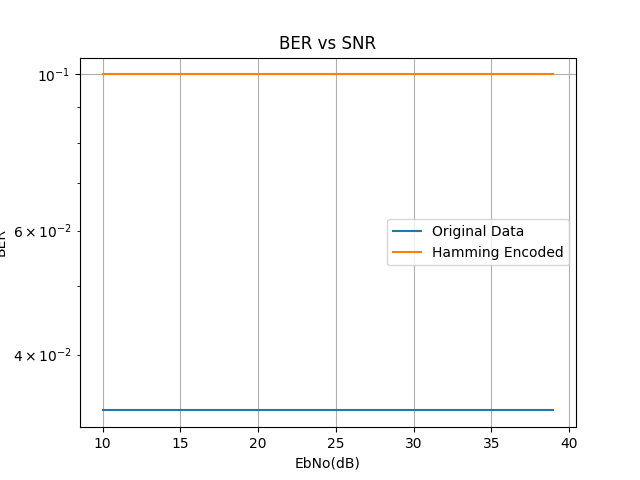
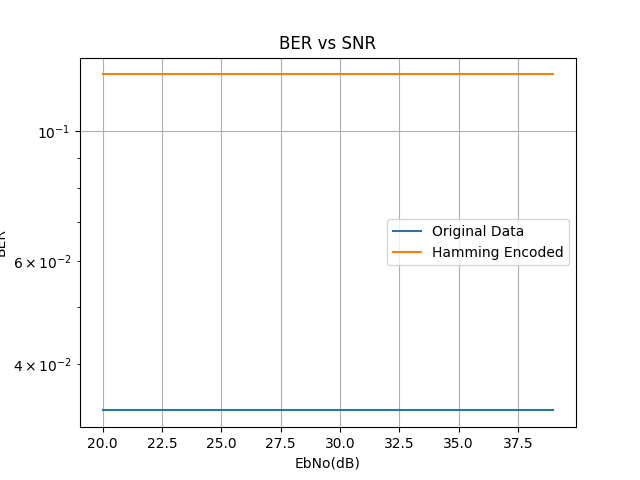
fixed decoding in hamming codes

diff --git a/Python/FuncAndClass.py b/Python/FuncAndClass.py
@@ -14,6 +14,10 @@ from sys import argv
 from struct import *
 # Huffman Coding in python
 
+# Global Variables .... If I want to change multiple values
+totWithHammSize = 8
+noHammSize = 4
+
 # Creating tree nodes
 class NodeTree(object):
 
@@ -244,8 +248,8 @@ def binText(arr):
 def hammingCoding(data):
     print("Data that came into the hamming code ", data)
     slicedStr=[]
-    for i in range (4, len(data)+1, 4):
-        slicedStr.append(data[i-4:i])
+    for i in range (4, len(data)+1, noHammSize):
+        slicedStr.append(data[i-noHammSize:i])
     print("The sliced data is ", slicedStr)
     encodedStr=[]
     for j in range(0, len(slicedStr)):
@@ -280,12 +284,31 @@ def addParityBits(data, r):
     m = len(data)
     data = list(data)
     # if in postition that is a power of 2 then insert 0
-    # data.insert(0, '0')
+    data.insert(0, '0')
+    j = 0
     for i in range (1, m+1):
-        if 2**i%2==0:
+        if i == 2**j:
             data.insert(i, '0')
+            j+=1
     data = ''.join(data)
     return data
+
+def parityValues(arr):
+    arr = [int(i) for i in list(arr)]
+    parityNo = reduce(lambda x,y: x ^ y, [i for i, bit in enumerate(arr) if bit])
+    parityNo = bin(parityNo).replace("0b","")
+    if parityNo[0] != '0':
+        parityNo = list(parityNo)
+        for i in range (0, len(parityNo)):
+            if 2**i < len(arr):
+                arr[i] = parityNo[i] 
+    total=0
+    for i in range(0,len(arr)): 
+        if int(arr[i]) == 1: total+=1
+    if total%2==0: arr[0]='0'
+    else: arr[0]='1'
+    arr = ''.join([str(i) for i in arr])
+    return arr
 
 '''
 def posRedundantBits(data, r): 
@@ -332,78 +355,57 @@ def calcParityBits(arr, r):
 	return arr 
 '''
 
-def parityValues(arr):
-    arr = [int(i) for i in list(arr)]
-    parityNo = reduce(lambda x,y: x ^ y, [i for i, bit in enumerate(arr) if bit])
-    parityNo = bin(parityNo).replace("0b","")
-    if parityNo[0] != '0':
-        parityNo = list(parityNo)
-        for i in range (0, len(parityNo)):
-            if 2**i < len(arr):
-                arr[i] = parityNo[i] 
-    total=0
-    for i in range(0,len(arr)): 
-        if int(arr[i]) == 1: total+=1
-    if total%2==0: arr[0]='0'
-    else: arr[0]='1'
-    arr = ''.join([str(i) for i in arr])
-    return arr
-
 def hammDec(recArr):
     recArr =  ''.join(map(str, recArr))
     print("The data that came into the function", recArr)
     slicedStr=[]
-    for i in range (8, len(recArr)+1, 8):
-        slicedStr.append(recArr[i-8:i])
+    # breakup our data into the pieces that they were originally encoded as
+    for i in range (totWithHammSize, len(recArr)+1, totWithHammSize):
+        slicedStr.append(recArr[i-totWithHammSize:i])
     decodedStr=[]
     for j in range(0, len(slicedStr)):
         arr = slicedStr[j]
         arr = [int(i) for i in list(arr)]        
-        error = detectError(arr, 3)
+        # determine position of error and if none then return 0
+        error = reduce(lambda x,y: x ^ y, [i for i, bit in enumerate(arr) if bit])
         if error == 0:
-            # if this is true then no errors detected and just remove parity bits
+            # if this is true then no errors detected then just remove parity bits
             arr = [str(x) for x in arr]
-            arr = arr[2:3] + arr[4:]  # remove parity bits
-            arr = ''.join(arr)
-            decodedStr.append(arr)
+            decodedArr = remParityBits(arr)
+            decodedStr.append(decodedArr)
             print("No error detected")
-        else:
-            if error != 0:
-                if arr[error] == 0: arr[error] = 1
-                if arr[error] == 1: arr[error] = 0
-                # detect if there was one more error 
-                total=0
-                for i in range(0,len(arr)): 
-                    if int(arr[i]) == 1: total+=1
-                if total%2 != arr[0]:
-                    print("Extra error detected.")
+        elif error != 0: 
+            # correct error
+            if arr[error] == 0: 
+                arr[error] = 1
+            elif arr[error] == 1: 
+                arr[error] = 0
+            # detect if there was one more error 
+            total=0
+            for i in range(0,len(arr)): 
+                if int(arr[i]) == 1: total+=1
+            if total%2 != arr[0]:
+                print("Extra error detected.")
+            # remove any parity bits
             arr = [str(x) for x in arr]
-            arr = arr[2:3] + arr[4:]  # remove parity bits
-            arr = ''.join(arr)
-            decodedStr.append(arr)
-    arr = ''.join(decodedStr)
+            decodedArr = remParityBits(arr)
+            decodedStr.append(decodedArr)
+    finalArr = ''.join(decodedStr)
     print("Sliced data is", slicedStr)
     print("The decoded Data is", decodedStr)
-    print("The final data is", arr)
-    return arr
+    print("The final data is", finalArr)
+    return finalArr
 
-def detectError(arr, nr): 
-    n = len(arr) 
-    res = 0
-    # Calculate parity bits again 
-    for i in range(nr): 
-        val = 0
-        for j in range(0, n): 
-            if(j & (2**i) == (2**i)): 
-                val = val ^ int(arr[-1 * j]) 
-  
-        # Create a binary no by appending 
-        # parity bits together. 
-  
-        res += val*(10**i) 
-  
-    # Convert binary to decimal 
-    return int(str(res), 2)  
+def remParityBits(arr):
+    # remove parity bits
+    k=0
+    decodedArr=''
+    for i in range (1, len(arr)): 
+        if i != 2**k: 
+            decodedArr += arr[i]  
+            k+=1
+    decodedArr = decodedArr[1:]
+    return decodedArr
 
 def stringIt(arr):
     arr = arr.astype(str)
@@ -437,11 +439,10 @@ def monteTransmit(EbNo, transArr, sourceData, root=0 , code=0):
         if code == 1:
             answer = 'Hamming Encoded'
             modArr = mod.modulate(transArr)
-            rateHamming = 4/8
+            rateHamming = noHammSize/totWithHammSize
             recieveArr = awgn(modArr, SNR, rate=rateHamming)
             demodArr = mod.demodulate(recieveArr, 'hard')
             demodArr = demodArr[:len(transArr)] #checking for size changes
-            
             print("The original Data is", sourceData)     
             print("The data with hamming code", stringIt(transArr))
             decodedData = hammDec(demodArr)   
@@ -481,14 +482,14 @@ def monteTransmit(EbNo, transArr, sourceData, root=0 , code=0):
             recieveArr = awgn(modArr, SNR, rate=1)
             demodArr = mod.demodulate(recieveArr, 'hard')
             answer = 'Original Data'
-            numErrs += np.sum(transArr != demodArr)
-            BERarr[i] = numErrs/demodArr.size
+            decodedData = demodArr
+            numErrs += np.sum(sourceData != decodedData)
+            BERarr[i] = numErrs/decodedData.size
     plt.semilogy(EbNo, BERarr, label=answer)
     print("The number of errors in our code is ", numErrs)
-    print("Data Transmited is ", transArr)
-    print("Data Recieved is ", demodArr)
+    print("Data Transmited is ", sourceData)
+    print("Data Recieved is ", decodedData)
     print("The Bit error ratio is ", BERarr[i])
     print("")  
     
     return demodArr
-

diff --git a/Python/JointCode.py b/Python/JointCode.py
@@ -37,11 +37,12 @@ for z in range(3):
         decHuff += huffDec(huffData, root)
     print("Is it decoding correctly?")
     print(np.sum(decHuff != huffData))
+
     f = open('string/Before_After' + str(z) + '.txt', 'w')
     f.write ('Original Data = ' + str(origData))
     f.write ('Comp Data = ' + str(huffData))
     f.write ('unComp Data = ' +  str(decHuff))
-    f.close()
+    f.close()    
 
     # LZWData = LZWEnc(strData)
     # infData = Deflate(strData)
@@ -67,6 +68,7 @@ for z in range(3):
     
     for i in range(1, len(sourceCodes)):
         # hamming code
+        origData = np.array(list(origData),dtype=int)
         JSCData = hammingCoding(sourceCodes[i])
 
         #LDPCData = get_ldpc_code_params(sourceCodes[i])
@@ -74,14 +76,14 @@ for z in range(3):
         # convData = conv_encode(sourceCodes[i], trellis, termination='term', puncture_matrix=None)
         # turboData = turbo_encode(sourceCodes[i], trellis1, trellis2, interleaver)
 
-        EbNo = np.arange(10, 40)
+        EbNo = np.arange(20, 40)
         plt.xlabel('EbNo(dB)')
         plt.ylabel('BER')
         plt.title('BER vs SNR')
         plt.yscale('log')
         plt.grid(True)
 
-        monteTransmit(EbNo, np.array(list(origData),dtype=int), sourceCodes[i])
+        monteTransmit(EbNo, origData, sourceCodes[i])
         recieveArr = monteTransmit(EbNo, JSCData, sourceCodes[i], root, 1)
         
         # recieveArr = monteTransmit(EbNo, dict(subString.split("=") for subString in sourceCodes[i].split(";")) + LDPCData, LDPCData, 2)
